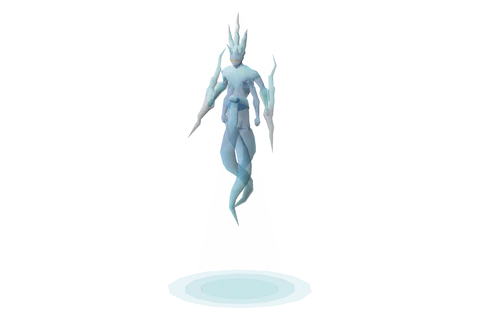
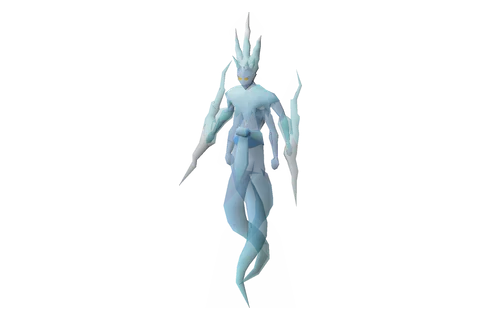
feat: per-boss portrait tweaks; Blood Moon for Moons of Peril
- the portrait processor takes per-boss tweaks: cropBottom removes a ground
  disc baked into the Wiki image, scale nudges the size the shared rules pick
- Amoxliatl and Moons of Peril crop their discs, so each figure fills the
  portrait height instead of sharing it with the disc
- Moons of Peril uses the Blood Moon instead of the Eclipse Moon

Changed region(s): [[0.375, 0.0312, 0.625, 0.9688]]

diff --git a/download_icons.js b/download_icons.js
@@ -17,7 +17,7 @@ import { finished } from 'stream/promises';
 import sharp from 'sharp';
 import { RAW_BOSS_DATA } from './js/drops.js';
 import { getItemImageFilename, getItemWikiImageUrl, getBossImagePath } from './js/data.js';
-import { getBossDefinition, getBossWikiImage } from './js/bosses.js';
+import { getBossDefinition, getBossWikiImage, getBossPortraitTweaks } from './js/bosses.js';
 
 const ITEMS_DIR = './assets/items';
 const BOSSES_DIR = './assets/bosses';
@@ -149,14 +149,18 @@ function measureFigure({ data, info }) {
 }
 
 /** Trims, scales and places one figure on the shared portrait canvas, standing on the floor line. */
-async function standardisePortrait(sourcePath, outputPath) {
+async function standardisePortrait(sourcePath, outputPath, { cropBottom, scale: tweakScale }) {
     // GIFs and animated images use their first frame
-    const raw = await sharp(sourcePath, { pages: 1 }).ensureAlpha().raw().toBuffer({ resolveWithObject: true });
+    const source = sharp(sourcePath, { pages: 1 });
+    const { width: sourceWidth, height: sourceHeight } = await source.metadata();
+    const raw = await source
+        .extract({ left: 0, top: 0, width: sourceWidth, height: Math.round(sourceHeight * (1 - cropBottom)) })
+        .ensureAlpha().raw().toBuffer({ resolveWithObject: true });
     const figure = measureFigure(raw);
 
     // Equal visual weight, except where that would break the size limits (very tall or very wide figures)
     const scale = Math.min(
-        Math.sqrt(PORTRAIT.targetWeight / figure.opaque),
+        Math.sqrt(PORTRAIT.targetWeight / figure.opaque) * tweakScale,
         PORTRAIT.maxFigureWidth / figure.width,
         PORTRAIT.maxFigureHeight / figure.height
     );
@@ -188,7 +192,7 @@ async function downloadBossImages() {
 
     for (const key of toBuild) {
         try {
-            await standardisePortrait(cachedOriginal(key), getBossImagePath(key));
+            await standardisePortrait(cachedOriginal(key), getBossImagePath(key), getBossPortraitTweaks(key));
         } catch (err) {
             console.error(`[ERROR] Failed to process ${key}:`, err.message);
         }

diff --git a/js/bosses.js b/js/bosses.js
@@ -229,6 +229,7 @@ const WIKI_IMAGE_OVERRIDES = {
     chambers_of_xeric: 'Great_Olm.png',
     fortis_colosseum: 'Sol_Heredit.png',
     grotesque_guardians: 'Dusk.png',
+    moons_of_peril: 'Blood_Moon.png',
     the_corrupted_gauntlet: 'Corrupted_Hunllef.png',
     the_fight_caves: 'TzTok-Jad.png',
     the_gauntlet: 'Crystalline_Hunllef.png',
@@ -241,3 +242,15 @@ const WIKI_IMAGE_OVERRIDES = {
 
 /** Gets the Wiki file to use for a boss's portrait, or null to use its Wiki page's own image. */
 export const getBossWikiImage = (key) => WIKI_IMAGE_OVERRIDES[key] ?? null;
+
+// Per-boss adjustments to the standardised portrait (see download_icons.js):
+// - cropBottom: share of the image's height to cut from the bottom, for a ground disc baked into the Wiki image
+//   that would otherwise use up the figure's height
+// - scale: multiplies the size the shared rules pick; the portrait still stays within the canvas
+const PORTRAIT_TWEAKS = {
+    amoxliatl: { cropBottom: 0.13 },
+    moons_of_peril: { cropBottom: 0.12 }
+};
+
+/** Gets a boss's portrait adjustments: { cropBottom = 0, scale = 1 }. */
+export const getBossPortraitTweaks = (key) => ({ cropBottom: 0, scale: 1, ...PORTRAIT_TWEAKS[key] });
